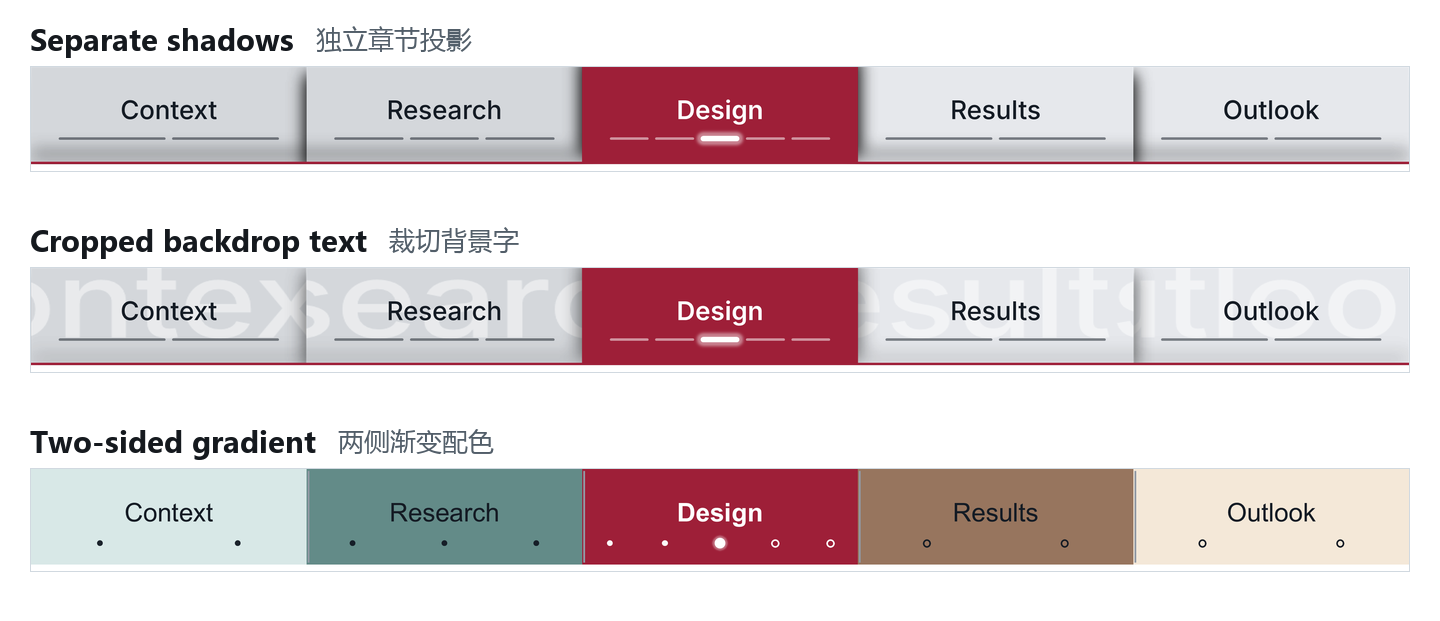
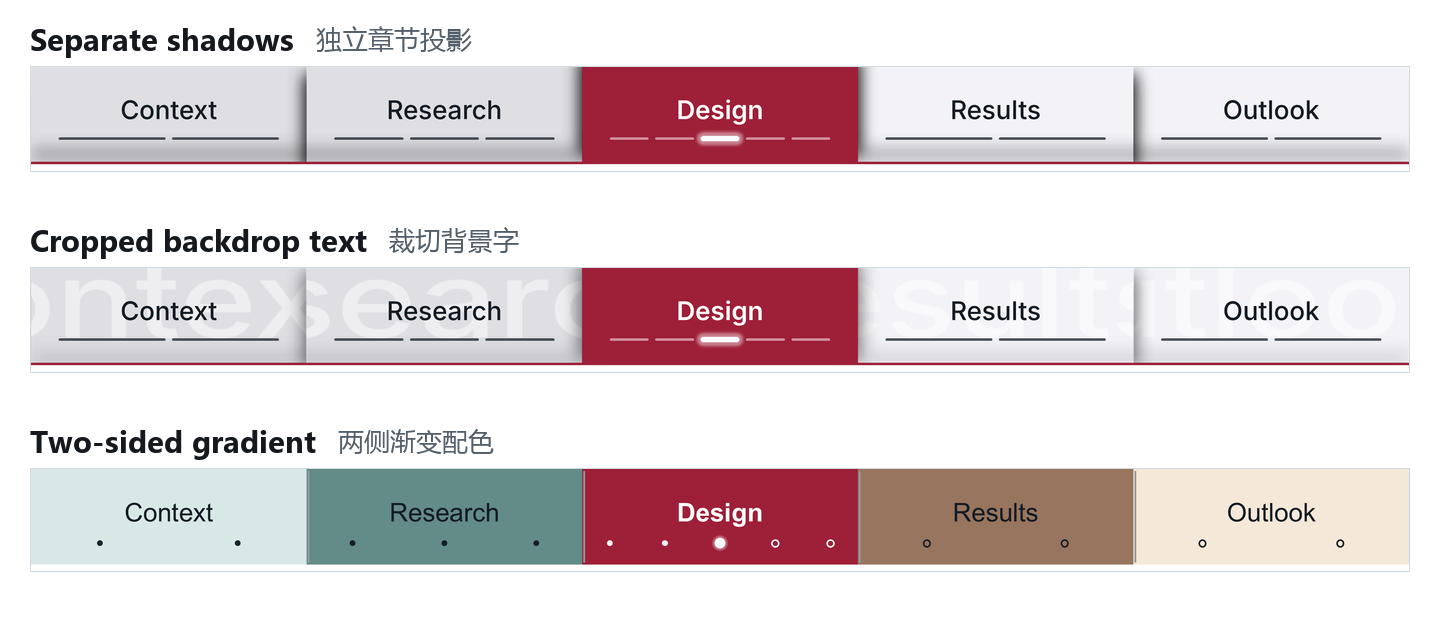
Match Crimson Layers to Light Layers for inactive sections

diff --git a/english_sources.py b/english_sources.py
@@ -44,7 +44,7 @@ def prepare_english(
             continue
         source = ENCODED_TEXT.sub(translate_vba, module.read_text("utf-8-sig"))
         if module.name == "mdlOptionsHandling.bas":
-            source = source.replace('" CN.11.6 32b/64b"', '" EN.11.6 32b/64b"')
+            source = source.replace('" CN.11.7 32b/64b"', '" EN.11.7 32b/64b"')
         if module.name == "basGeneral.bas":
             source = source.replace('family = "Microsoft YaHei"',
                                     'family = "Segoe UI"')
@@ -60,7 +60,7 @@ def prepare_english(
     xml.write(target / "customUI14.xml", encoding="UTF-8", xml_declaration=True)
 
     catalog = json.loads((project_dir / "styles.json").read_text("utf-8"))
-    catalog["version"] = "EN.11.6"
+    catalog["version"] = "EN.11.7"
     for style in catalog["styles"]:
         for field in ("name", "family", "description"):
             style[field] = ribbon_text[style[field]]

diff --git a/build_package.py b/build_package.py
@@ -314,7 +314,7 @@ def main():
 
         source_dir = prepare_english(source_dir, ROOT, args.output_dir / "en")
     version = args.version_token or (
-        "EN11_6" if args.language == "en" else "CN11_6"
+        "EN11_7" if args.language == "en" else "CN11_7"
     )
     base_dir = RESOURCE_ROOT / "original/ProgressIndicators_v1960_3264b"
     reports = []

diff --git a/README.md b/README.md
@@ -9,7 +9,7 @@
   <sub><a href="https://github.com/AdamWilsonLab/progress_indicators">Upstream GitHub repository (AdamWilsonLab/progress_indicators)</a> | <a href="https://datenbank-projekt.de/projekte/progress-indicator-powerpoint-2010-2013-2016-32-and-64-bit-windows-mac">Olaf Nöhring's project page</a></sub>
 </p>
 
-<p align="center"><sub>PowerPoint for Windows &nbsp;|&nbsp; EN.11.6 / CN.11.6</sub></p>
+<p align="center"><sub>PowerPoint for Windows &nbsp;|&nbsp; EN.11.7 / CN.11.7</sub></p>
 
 <img src="docs/assets/native/crimson-layers.webp" alt="Five section tabs span the slide. Design is red, and its third marker glows white." width="100%" />
 
@@ -38,8 +38,8 @@ Download the ZIP for the language you want on the PowerPoint ribbon. Both packag
 
 | Download | File to open in PowerPoint |
 | --- | --- |
-| <a href="https://github.com/GH-X-ST/PowerPoint-Progress-Indicators/releases/download/EN.11.6/ProgressIndicators-EN.11.6.zip"><picture><source media="(prefers-color-scheme: dark)" srcset="docs/assets/badges/en-dark.svg" /><source media="(prefers-color-scheme: light)" srcset="docs/assets/badges/en-light.svg" /><img src="docs/assets/badges/en-light.svg" alt="Download the English edition (ZIP)" width="164" /></picture></a> | `ProgressIndicators_v1960_3264b_SB_EN11_6.ppam` |
-| <a href="https://github.com/GH-X-ST/PowerPoint-Progress-Indicators/releases/download/CN.11.6/ProgressIndicators-CN.11.6.zip"><picture><source media="(prefers-color-scheme: dark)" srcset="docs/assets/badges/cn-dark.svg" /><source media="(prefers-color-scheme: light)" srcset="docs/assets/badges/cn-light.svg" /><img src="docs/assets/badges/cn-light.svg" alt="Download the Simplified Chinese edition (ZIP)" width="164" /></picture></a> | `ProgressIndicators_v1960_3264b_SB_CN11_6.ppam` |
+| <a href="https://github.com/GH-X-ST/PowerPoint-Progress-Indicators/releases/download/EN.11.7/ProgressIndicators-EN.11.7.zip"><picture><source media="(prefers-color-scheme: dark)" srcset="docs/assets/badges/en-dark.svg" /><source media="(prefers-color-scheme: light)" srcset="docs/assets/badges/en-light.svg" /><img src="docs/assets/badges/en-light.svg" alt="Download the English edition (ZIP)" width="164" /></picture></a> | `ProgressIndicators_v1960_3264b_SB_EN11_7.ppam` |
+| <a href="https://github.com/GH-X-ST/PowerPoint-Progress-Indicators/releases/download/CN.11.7/ProgressIndicators-CN.11.7.zip"><picture><source media="(prefers-color-scheme: dark)" srcset="docs/assets/badges/cn-dark.svg" /><source media="(prefers-color-scheme: light)" srcset="docs/assets/badges/cn-light.svg" /><img src="docs/assets/badges/cn-light.svg" alt="Download the Simplified Chinese edition (ZIP)" width="164" /></picture></a> | `ProgressIndicators_v1960_3264b_SB_CN11_7.ppam` |
 
 1. Extract the ZIP. In PowerPoint for Windows, open **File > Options > Add-ins**.
 2. At the bottom of the dialog, set **Manage** to **PowerPoint Add-ins** and click **Go**.
@@ -171,7 +171,7 @@ On a top bar, **Cropped Backdrop Text (Top) > Backdrop Text for Other Sections**
   <img src="docs/assets/native/surfaces-light.webp" alt="Three bars show separate panel shadows, large cropped names behind Research and Results, and a gradient with teal before Design and brown after." width="100%" />
 </picture>
 
-**Crimson Layers** joins the current section to a 1 pt strip. Where two sections meet, the one closer to the current section casts its shadow on the other. The current slide has a thicker marker with a glow. All other slides have thin markers at 70% transparency, including those in the current section. To adjust the strip or soften the shadows, open **Layered Navigation**. To match the lettering in the screenshot, install Inter SemiBold for the current section and Inter Medium for the others on the computers used to edit and present the slides. [Inter fonts](https://rsms.me/inter/)
+**Crimson Layers** joins the current section to a 1 pt strip. Where two sections meet, the one closer to the current section casts its shadow on the other. The current slide has a thicker marker with a glow. The other markers in the current section are 70% transparent. Earlier and later sections use the same gray backgrounds as **Light Layers**, with thin markers at 50% transparency. To adjust the strip or soften the shadows, open **Layered Navigation**. To match the lettering in the screenshot, install Inter SemiBold for the current section and Inter Medium for the others on the computers used to edit and present the slides. [Inter fonts](https://rsms.me/inter/)
 
 <details>
 <summary>Use colors from the presentation theme</summary>
@@ -481,12 +481,12 @@ uv pip install --python .venv\Scripts\python.exe -r requirements-build.txt
 .\.venv\Scripts\python.exe build_package.py --language en --output-dir rebuild --report rebuild/package-validation.json
 ```
 
-The build creates `rebuild/ProgressIndicators_v1960_3264b_SB_EN11_6.pptm`. The English VBA and Ribbon XML are in `rebuild/en/source/` and the translated preset catalog is in `rebuild/en/styles.json`.
+The build creates `rebuild/ProgressIndicators_v1960_3264b_SB_EN11_7.pptm`. The English VBA and Ribbon XML are in `rebuild/en/source/` and the translated preset catalog is in `rebuild/en/styles.json`.
 
 To package the `.ppam`, continue in the same PowerShell window. This step uses desktop PowerPoint and needs permission to run the presentation's macros. Choose a new output file.
 
 ```powershell
-$name = 'ProgressIndicators_v1960_3264b_SB_EN11_6'
+$name = 'ProgressIndicators_v1960_3264b_SB_EN11_7'
 $sourceDeck = (Resolve-Path "rebuild\$name.pptm").Path
 $releaseDir = Join-Path (Get-Location) 'rebuild\distribution'
 $ppam = Join-Path $releaseDir "$name.ppam"

diff --git a/README.zh-CN.md b/README.zh-CN.md
@@ -9,7 +9,7 @@
   <sub><a href="https://github.com/AdamWilsonLab/progress_indicators">上游 GitHub 仓库（AdamWilsonLab/progress_indicators）</a> · <a href="https://datenbank-projekt.de/projekte/progress-indicator-powerpoint-2010-2013-2016-32-and-64-bit-windows-mac">Olaf Nöhring 的项目页</a></sub>
 </p>
 
-<p align="center"><sub>Windows 桌面版 PowerPoint &nbsp;|&nbsp; CN.11.6 / EN.11.6</sub></p>
+<p align="center"><sub>Windows 桌面版 PowerPoint &nbsp;|&nbsp; CN.11.7 / EN.11.7</sub></p>
 
 <img src="docs/assets/native/crimson-layers.webp" alt="深红层叠进度条：当前在 Design 章的第 3 页，章名下方的第三个页标发亮。" width="100%" />
 
@@ -42,8 +42,8 @@
 
 | 下载 | 解压后在 PowerPoint 中选择 |
 | --- | --- |
-| <a href="https://github.com/GH-X-ST/PowerPoint-Progress-Indicators/releases/download/CN.11.6/ProgressIndicators-CN.11.6.zip"><picture><source media="(prefers-color-scheme: dark)" srcset="docs/assets/badges/cn-dark.svg" /><source media="(prefers-color-scheme: light)" srcset="docs/assets/badges/cn-light.svg" /><img src="docs/assets/badges/cn-light.svg" alt="下载 CN.11.6 压缩包" width="164" /></picture></a> | `ProgressIndicators_v1960_3264b_SB_CN11_6.ppam` |
-| <a href="https://github.com/GH-X-ST/PowerPoint-Progress-Indicators/releases/download/EN.11.6/ProgressIndicators-EN.11.6.zip"><picture><source media="(prefers-color-scheme: dark)" srcset="docs/assets/badges/en-dark.svg" /><source media="(prefers-color-scheme: light)" srcset="docs/assets/badges/en-light.svg" /><img src="docs/assets/badges/en-light.svg" alt="下载 EN.11.6 压缩包" width="164" /></picture></a> | `ProgressIndicators_v1960_3264b_SB_EN11_6.ppam` |
+| <a href="https://github.com/GH-X-ST/PowerPoint-Progress-Indicators/releases/download/CN.11.7/ProgressIndicators-CN.11.7.zip"><picture><source media="(prefers-color-scheme: dark)" srcset="docs/assets/badges/cn-dark.svg" /><source media="(prefers-color-scheme: light)" srcset="docs/assets/badges/cn-light.svg" /><img src="docs/assets/badges/cn-light.svg" alt="下载 CN.11.7 压缩包" width="164" /></picture></a> | `ProgressIndicators_v1960_3264b_SB_CN11_7.ppam` |
+| <a href="https://github.com/GH-X-ST/PowerPoint-Progress-Indicators/releases/download/EN.11.7/ProgressIndicators-EN.11.7.zip"><picture><source media="(prefers-color-scheme: dark)" srcset="docs/assets/badges/en-dark.svg" /><source media="(prefers-color-scheme: light)" srcset="docs/assets/badges/en-light.svg" /><img src="docs/assets/badges/en-light.svg" alt="下载 EN.11.7 压缩包" width="164" /></picture></a> | `ProgressIndicators_v1960_3264b_SB_EN11_7.ppam` |
 
 1. 在 Windows 桌面版 PowerPoint 中打开 **文件 > 选项 > 加载项**。
 2. 在窗口底部的 **管理** 列表中选择 **PowerPoint 加载项**，点击 **转到**。如果列表里已启用旧版或另一种语言的版本，先取消勾选。
@@ -142,7 +142,7 @@
   <img src="docs/assets/native/surfaces-light.webp" alt="独立章节阴影、裁切背景字、两侧渐变的对照。背景字示例中 Research 和 Results 的大字只显示在各自色块里。" width="100%" />
 </picture>
 
-页首的 **深红层叠** 将当前章和底部的红色连接条连成一体。相邻的色块逐层相叠，越靠近当前章就越靠前。当前章名用 Inter SemiBold，其他章名用 Inter Medium。当前页的标记较厚，带有辉光。其余页标都是细条，透明度为 70%，包括当前章内的其他页。在制作和放映电脑上都安装这两种字重，才能看到预设原有的字形。[下载 Inter](https://rsms.me/inter/)
+页首的 **深红层叠** 将当前章和底部的红色连接条连成一体。相邻的色块逐层相叠，越靠近当前章就越靠前。当前章名用 Inter SemiBold，其他章名用 Inter Medium。当前页的标记较厚，带有辉光。当前章的其他页标是细条，透明度为 70%。已讲和未讲章节沿用**轻盈层次**的两种灰色底色，页标透明度为 50%。在制作和放映电脑上都安装这两种字重，才能看到预设原有的字形。[下载 Inter](https://rsms.me/inter/)
 
 <details>
 <summary>给当前章加一道线，或在相邻章节之间加分隔线</summary>
@@ -501,10 +501,10 @@ VBA 模块、窗体和功能区 XML 在 `source/` 中。修改预设参数时，
 ```powershell
 uv venv --python 3.12 .venv
 uv pip install --python .venv\Scripts\python.exe -r requirements-build.txt
-.\.venv\Scripts\python.exe build_package.py --output-dir rebuild --version-token CN11_6 --report rebuild\package-validation.json
+.\.venv\Scripts\python.exe build_package.py --output-dir rebuild --version-token CN11_7 --report rebuild\package-validation.json
 ```
 
-输出文件是 `rebuild/ProgressIndicators_v1960_3264b_SB_CN11_6.pptm`。要得到可安装的 `.ppam`，用发布脚本调用 Windows 桌面版 PowerPoint 另存这份文稿。[中文版构建与发布说明](BUILD_zh-CN.txt)
+输出文件是 `rebuild/ProgressIndicators_v1960_3264b_SB_CN11_7.pptm`。要得到可安装的 `.ppam`，用发布脚本调用 Windows 桌面版 PowerPoint 另存这份文稿。[中文版构建与发布说明](BUILD_zh-CN.txt)
 
 <a id="license"></a>
 <a id="许可证与署名"></a>

diff --git a/THIRD_PARTY_NOTICES.en.md b/THIRD_PARTY_NOTICES.en.md
@@ -6,6 +6,6 @@ This project is based on Progress Indicator 1.960. Its MIT License preserves the
 
 ## FatCow Farm-Fresh Web Icons
 
-Copyright (C) 2009-2014 FatCow Web Hosting. The upstream author credits FatCow for most of the Ribbon icons. EN.11.6 includes the icons embedded in the upstream PowerPoint templates. FatCow's Farm-Fresh Web Icons use the **Creative Commons Attribution 3.0 United States (CC BY 3.0 US)** license. [FatCow icon page](http://www.fatcow.com/free-icons) | [CC BY 3.0 US legal code](https://creativecommons.org/licenses/by/3.0/us/legalcode)
+Copyright (C) 2009-2014 FatCow Web Hosting. The upstream author credits FatCow for most of the Ribbon icons. EN.11.7 includes the icons embedded in the upstream PowerPoint templates. FatCow's Farm-Fresh Web Icons use the **Creative Commons Attribution 3.0 United States (CC BY 3.0 US)** license. [FatCow icon page](http://www.fatcow.com/free-icons) | [CC BY 3.0 US legal code](https://creativecommons.org/licenses/by/3.0/us/legalcode)
 
 FatCow's original terms describe use in personal and commercial software, websites, and templates and request a link to the icon source in the software or website credits. They also list restrictions on reselling, sublicensing, renting, transferring, or otherwise making the icons available for others to use. [Archived FatCow terms of use](https://web.archive.org/web/20190416064342/https://www.fatcow.com/free-icons) | [Mirror of the notice distributed with the icon set](https://raw.githubusercontent.com/gammasoft/fatcow/master/readme-fatcow.txt)

diff --git a/THIRD_PARTY_NOTICES.md b/THIRD_PARTY_NOTICES.md
@@ -6,6 +6,6 @@
 
 ## FatCow Farm-Fresh Web Icons
 
-© 2009–2014 FatCow Web Hosting. 上游作者说明，功能区的大部分图标取自 FatCow。CN.11.6 沿用了上游模板中嵌入的图标。FatCow 的 Farm-Fresh Web Icons 使用 **Creative Commons Attribution 3.0 United States (CC BY 3.0 US)** 许可。[FatCow 图标原页](http://www.fatcow.com/free-icons) · [许可全文](https://creativecommons.org/licenses/by/3.0/us/legalcode)
+© 2009–2014 FatCow Web Hosting. 上游作者说明，功能区的大部分图标取自 FatCow。CN.11.7 沿用了上游模板中嵌入的图标。FatCow 的 Farm-Fresh Web Icons 使用 **Creative Commons Attribution 3.0 United States (CC BY 3.0 US)** 许可。[FatCow 图标原页](http://www.fatcow.com/free-icons) · [许可全文](https://creativecommons.org/licenses/by/3.0/us/legalcode)
 
 FatCow 原网页说明，图标可用于个人及商业软件、网站和模板，并要求在软件或网站的致谢处链接图标来源。同一页还列明不得转售、再许可、出租、转让图标，或以其他方式提供图标供人使用。[FatCow 官网存档中的 Terms of Use](https://web.archive.org/web/20190416064342/https://www.fatcow.com/free-icons) · [图标包随附说明的镜像](https://raw.githubusercontent.com/gammasoft/fatcow/master/readme-fatcow.txt)
